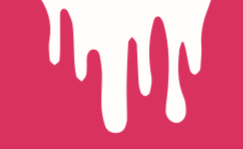
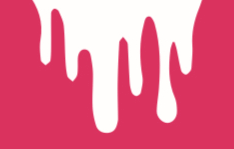
Crop drip images and reposition them next to the header labels
- Trim pink margin above/around the drip shapes so they're symmetric and flush to the top
- Fix vertical misalignment between the two drips (object-position: top)
- Move drips next to "THE SPOT" / "KZN" instead of flanking the logo, and enlarge them ~20%

Changed region(s): [[0.1197, 0.0, 0.8675, 0.9128]]

diff --git a/styles.css b/styles.css
@@ -78,16 +78,14 @@ body {
   flex-shrink: 0;
 }
 
-/* Drip bar — decorative drips flanking the logo, between the stripe labels */
-.site-drip-bar {
+/* Stripe groups — drip decoration sits right next to THE SPOT / KZN */
+.site-stripe-group {
   position: relative;
   display: flex;
-  flex: 1;
+  align-items: center;
+  gap: 0.35rem;
   min-width: 0;
-  justify-content: center;
-  align-items: flex-start;
   line-height: 0;
-  overflow: hidden;
 }
 
 /* =======================================
@@ -176,12 +174,13 @@ body {
   display: block;
   position: relative;
   z-index: 1;
-  height: 44px;
+  height: 53px;
   width: auto;
-  max-width: 70px;
+  max-width: 84px;
   flex-shrink: 1;
   min-width: 0;
   object-fit: contain;
+  object-position: top;
 }
 .menu-drip-logo-link {
   display: block;
@@ -428,8 +427,11 @@ body {
     font-size: 0.7rem;
   }
   .menu-drip-img {
-    height: 32px;
-    max-width: 40px;
+    height: 38px;
+    max-width: 48px;
+  }
+  .site-stripe-group {
+    gap: 0.25rem;
   }
   .menu-drip-logo {
     height: 32px;

diff --git a/index.html b/index.html
@@ -44,15 +44,17 @@
   </nav>
 
   <div class="site-stripe">
-    <span class="site-stripe-left">THE SPOT</span>
-    <div class="site-drip-bar">
+    <div class="site-stripe-group site-stripe-group--left">
+      <span class="site-stripe-left">THE SPOT</span>
       <img src="images/branding/drip_left.png" alt="" class="menu-drip-img menu-drip-img--left" aria-hidden="true"/>
-      <a href="#" class="menu-drip-logo-link" onclick="switchPage('menu'); return false;" aria-label="Vice KZN - Αρχική">
-        <img src="images/branding/vice-logo.png" alt="Vice" class="menu-drip-logo"/>
-      </a>
-      <img src="images/branding/drip_right.png" alt="" class="menu-drip-img menu-drip-img--right" aria-hidden="true"/>
     </div>
-    <span class="site-stripe-right">KZN</span>
+    <a href="#" class="menu-drip-logo-link" onclick="switchPage('menu'); return false;" aria-label="Vice KZN - Αρχική">
+      <img src="images/branding/vice-logo.png" alt="Vice" class="menu-drip-logo"/>
+    </a>
+    <div class="site-stripe-group site-stripe-group--right">
+      <img src="images/branding/drip_right.png" alt="" class="menu-drip-img menu-drip-img--right" aria-hidden="true"/>
+      <span class="site-stripe-right">KZN</span>
+    </div>
   </div>
 
   <main>